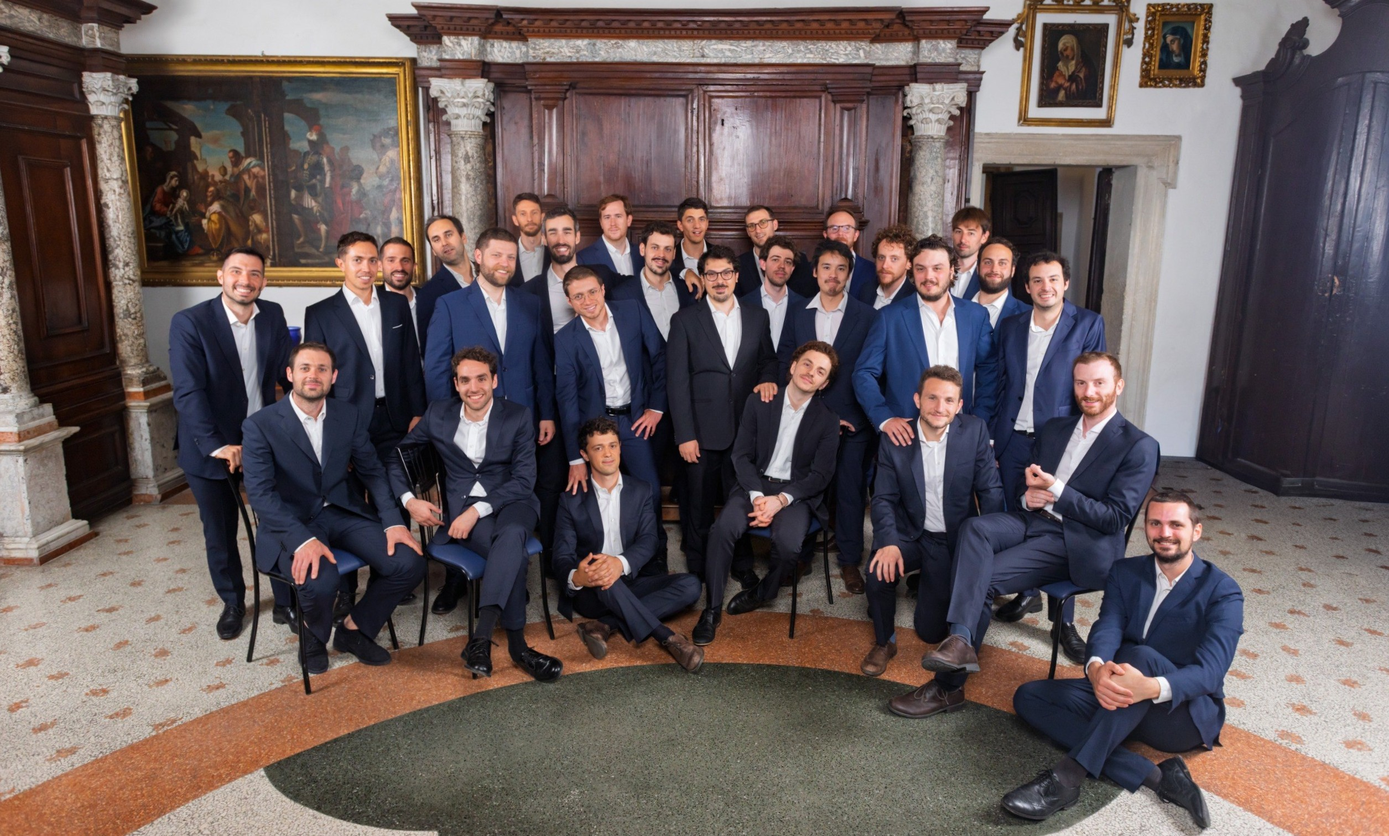
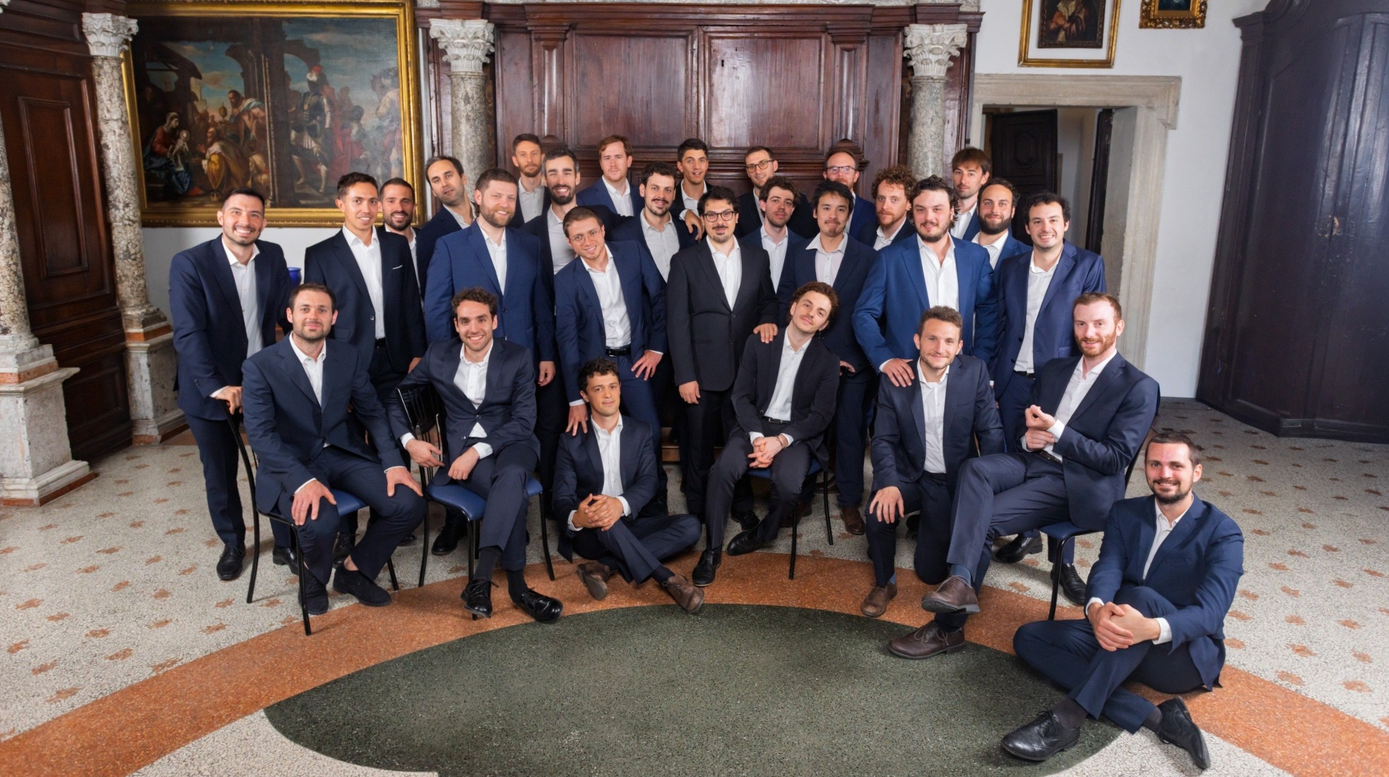
fixata hero e dettagli evento bibione

diff --git a/assets/css/style.css b/assets/css/style.css
@@ -75,6 +75,7 @@ p {
   display: block;
 }
 
+
 @media (max-width: 1024px) {
   .grid-4 {
     grid-template-columns: 1fr;
@@ -156,7 +157,7 @@ p {
   height: 100vh;
   background-image: url('/assets/images/hero.jpg');
   background-size: cover;
-  background-position: center;
+  background-position: center ;
   display: flex;
   align-items: center;
 }
@@ -191,11 +192,17 @@ p {
   display: block;
 }
 }
+
+
+
+
+
+
 /* =========================
    MOBILE NAV
 ========================= */
 
-@media (max-width: 1024px) {
+@media (max-width: 1224px) {
 
   h1 { font-size: 30px; }
   h2 { font-size: 28px; }
@@ -236,14 +243,14 @@ p {
 
 
   .hero {
-    height: 36vh;
-    margin-top: 25px;
-    min-height: 240px;
-    background-position: top center;
+    height: clamp(240px, 70vw, 800px);
+    margin-top: -35px;
+    
+    background-position: center 35px;;
   }
 
   section {
-    padding: 15px 0;
+    padding: 10px 0;
   }
 }
 
